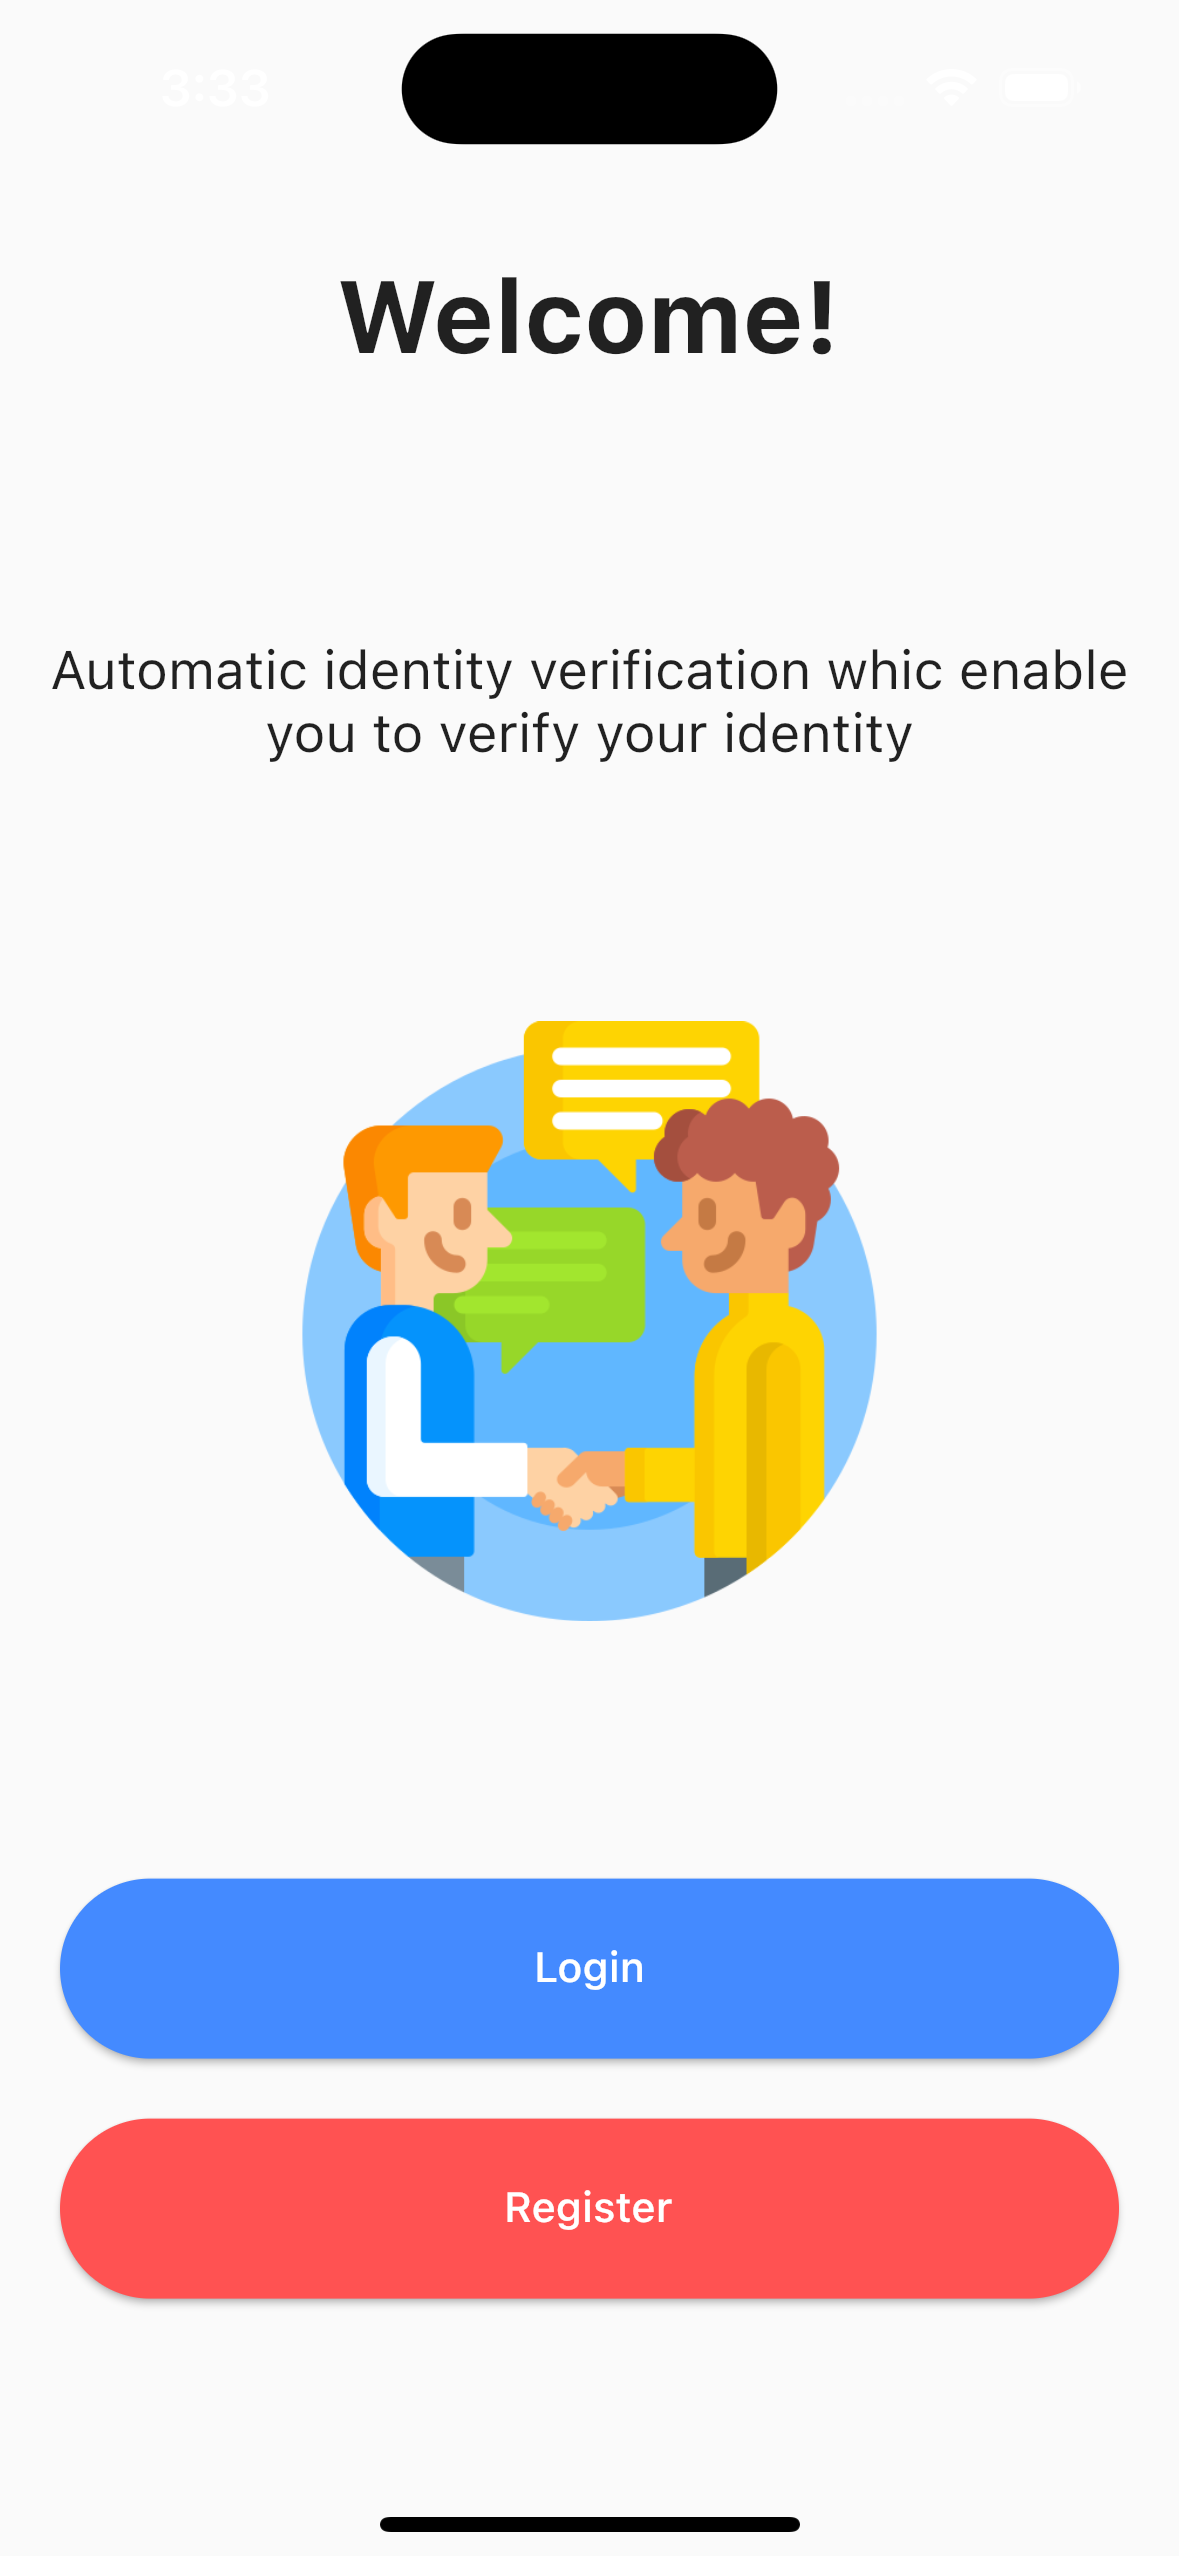
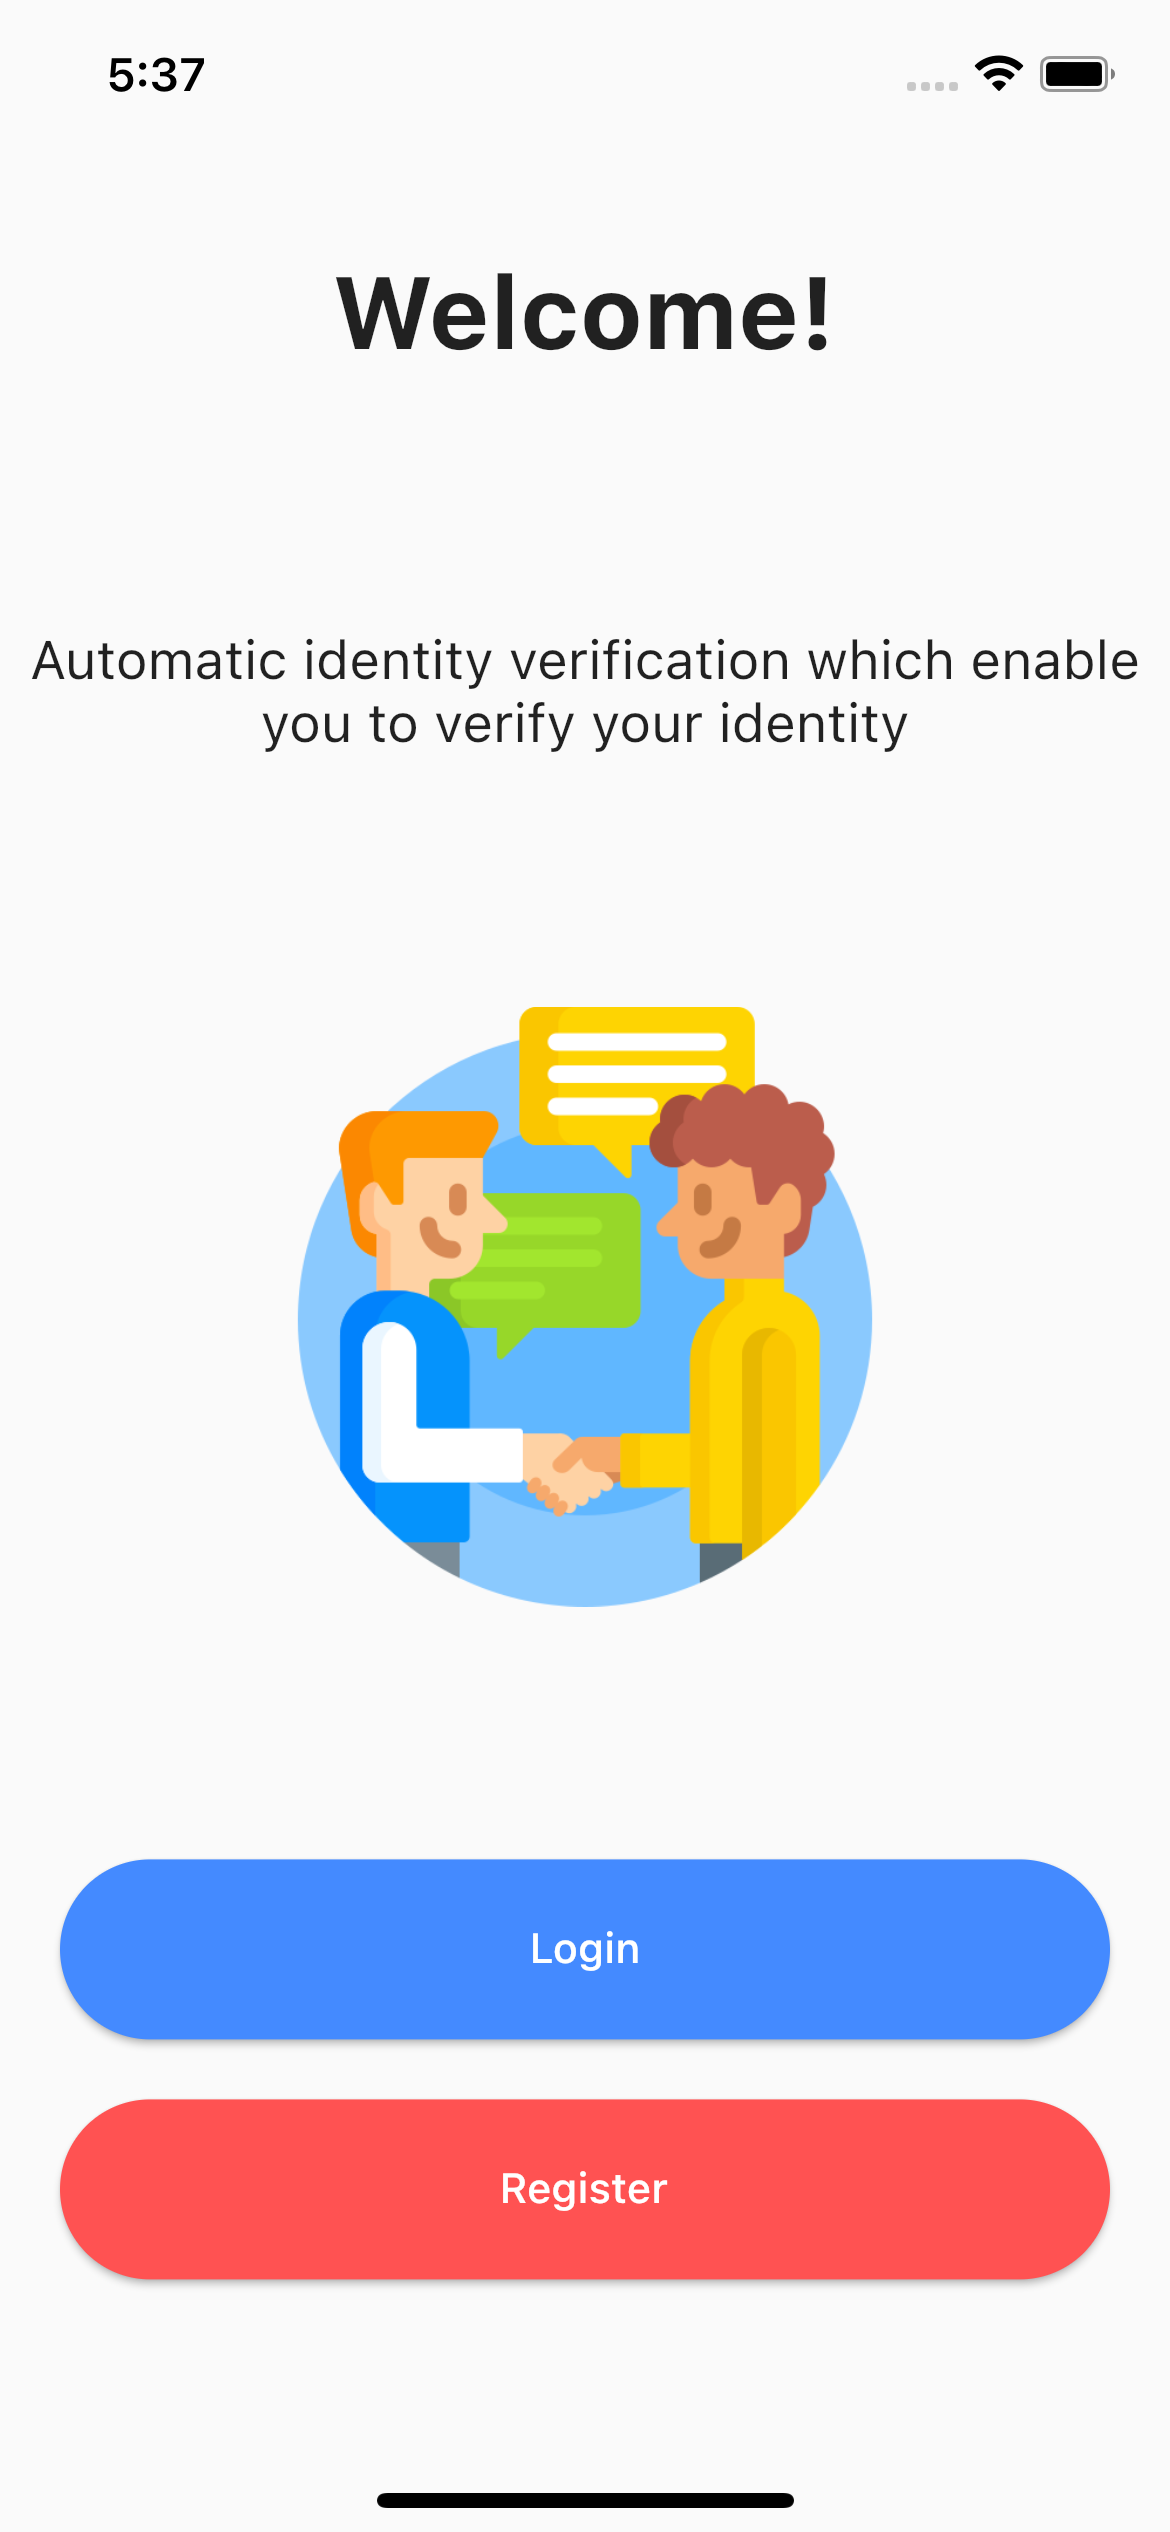
replaced screenshots

diff --git a/lib/welcome.dart b/lib/welcome.dart
@@ -1,4 +1,5 @@
 import 'package:flutter/material.dart';
+import 'package:flutter/services.dart';
 import 'package:flutter_application_1/login.dart';
 import 'package:flutter_application_1/register.dart';
 
@@ -7,72 +8,77 @@ class Welcome extends StatelessWidget {
 
   @override
   Widget build(BuildContext context) {
-    return Scaffold(
-        // appBar: AppBar(
-        //   backgroundColor: Colors.transparent,
-        //   elevation: 0,
-        // ),
-        body: Column(
-      mainAxisAlignment: MainAxisAlignment.spaceEvenly,
-      children: [
-        const Text(
-          'Welcome!',
-          style: TextStyle(fontWeight: FontWeight.bold, fontSize: 34),
-        ),
-        const Text(
-          'Automatic identity verification which enable you to verify your identity',
-          textAlign: TextAlign.center,
-          style: TextStyle(fontSize: 18),
-        ),
-        Image.asset(
-          'assets/images/introduction.png',
-          width: 200,
-        ),
-        Padding(
-          padding: const EdgeInsets.symmetric(horizontal: 20),
-          child: Column(
-            children: [
-              SizedBox(
-                width: double.infinity,
-                height: 60,
-                child: ElevatedButton(
-                  onPressed: () {
-                    Navigator.push(context,
-                        MaterialPageRoute(builder: (context) => const Login()));
-                  },
-                  style: ElevatedButton.styleFrom(
-                      //padding: EdgeInsets.symmetric(horizontal: 50, vertical: 15),
-                      backgroundColor: Colors.blueAccent,
-                      shape: RoundedRectangleBorder(
-                          borderRadius: BorderRadius.circular(50))),
-                  child: const Text('Login'),
-                ),
-              ),
-              const SizedBox(
-                height: 20,
-              ),
-              SizedBox(
-                width: double.infinity,
-                height: 60,
-                child: ElevatedButton(
-                  onPressed: () {
-                    Navigator.push(
-                        context,
-                        MaterialPageRoute(
-                            builder: (context) => const Register()));
-                  },
-                  style: ElevatedButton.styleFrom(
-                      //padding: EdgeInsets.symmetric(horizontal: 50, vertical: 15),
-                      backgroundColor: Colors.redAccent,
-                      shape: RoundedRectangleBorder(
-                          borderRadius: BorderRadius.circular(50))),
-                  child: const Text('Register'),
-                ),
-              )
-            ],
+    return AnnotatedRegion<SystemUiOverlayStyle>(
+      value: SystemUiOverlayStyle.dark,
+      child: Scaffold(
+          // appBar: AppBar(
+          //   backgroundColor: Colors.transparent,
+          //   elevation: 0,
+          // ),
+          body: Column(
+        mainAxisAlignment: MainAxisAlignment.spaceEvenly,
+        children: [
+          const Text(
+            'Welcome!',
+            style: TextStyle(fontWeight: FontWeight.bold, fontSize: 34),
           ),
-        ),
-      ],
-    ));
+          const Text(
+            'Automatic identity verification which enable you to verify your identity',
+            textAlign: TextAlign.center,
+            style: TextStyle(fontSize: 18),
+          ),
+          Image.asset(
+            'assets/images/introduction.png',
+            width: 200,
+          ),
+          Padding(
+            padding: const EdgeInsets.symmetric(horizontal: 20),
+            child: Column(
+              children: [
+                SizedBox(
+                  width: double.infinity,
+                  height: 60,
+                  child: ElevatedButton(
+                    onPressed: () {
+                      Navigator.push(
+                          context,
+                          MaterialPageRoute(
+                              builder: (context) => const Login()));
+                    },
+                    style: ElevatedButton.styleFrom(
+                        //padding: EdgeInsets.symmetric(horizontal: 50, vertical: 15),
+                        backgroundColor: Colors.blueAccent,
+                        shape: RoundedRectangleBorder(
+                            borderRadius: BorderRadius.circular(50))),
+                    child: const Text('Login'),
+                  ),
+                ),
+                const SizedBox(
+                  height: 20,
+                ),
+                SizedBox(
+                  width: double.infinity,
+                  height: 60,
+                  child: ElevatedButton(
+                    onPressed: () {
+                      Navigator.push(
+                          context,
+                          MaterialPageRoute(
+                              builder: (context) => const Register()));
+                    },
+                    style: ElevatedButton.styleFrom(
+                        //padding: EdgeInsets.symmetric(horizontal: 50, vertical: 15),
+                        backgroundColor: Colors.redAccent,
+                        shape: RoundedRectangleBorder(
+                            borderRadius: BorderRadius.circular(50))),
+                    child: const Text('Register'),
+                  ),
+                )
+              ],
+            ),
+          ),
+        ],
+      )),
+    );
   }
 }

diff --git a/lib/main.dart b/lib/main.dart
@@ -2,6 +2,7 @@ import 'dart:async';
 import 'dart:ui';
 
 import 'package:flutter/material.dart';
+import 'package:flutter/services.dart';
 import 'package:flutter_application_1/login.dart';
 import 'package:flutter_application_1/login_with_form.dart';
 import 'package:flutter_application_1/welcome.dart';
@@ -26,63 +27,52 @@ class Splash extends StatefulWidget {
 }
 
 class _SplashState extends State<Splash> {
-  @override
-  void initState() {
-    Timer(const Duration(milliseconds: 3000), () {
-      //Navigator.pushNamed(context, routeName);
-      Navigator.pushReplacement(
-          context,
-          MaterialPageRoute(builder: (context) => LoginWithValidation()));
-    });
-    super.initState();
-  }
+  // @override
+  // void initState() {
+  //   Timer(const Duration(milliseconds: 10000), () {
+  //     //Navigator.pushNamed(context, routeName);
+  //     Navigator.pushReplacement(
+  //         context,
+  //         MaterialPageRoute(builder: (context) => LoginWithValidation()));
+  //   });
+  //   super.initState();
+  // }
 
   @override
   Widget build(BuildContext context) {
-    return Scaffold(
-      body: Container(
-        decoration: const BoxDecoration(
-            image: DecorationImage(
-                image: NetworkImage(
-                    'https://images.unsplash.com/photo-1530569673472-307dc017a82d?ixlib=rb-4.0.3&ixid=MnwxMjA3fDB8MHxwaG90by1wYWdlfHx8fGVufDB8fHx8&auto=format&fit=crop&w=776&q=80'),
-                // image: AssetImage(
-                //   'assets/images/bg.jpg',
+    return AnnotatedRegion<SystemUiOverlayStyle>(
+      value: SystemUiOverlayStyle.dark,
+      child: Scaffold(
+        body: Container(
+          decoration: const BoxDecoration(
+              image: DecorationImage(
+                  image: NetworkImage(
+                      'https://images.unsplash.com/photo-1540417525167-05d2c4777f11?ixlib=rb-4.0.3&ixid=MnwxMjA3fDB8MHxwaG90by1wYWdlfHx8fGVufDB8fHx8&auto=format&fit=crop&w=774&q=80'),
+                  // image: AssetImage(
+                  //   'assets/images/bg.jpg',
+                  // ),
+                  fit: BoxFit.cover)),
+          child: Center(
+            child: Column(
+              mainAxisAlignment: MainAxisAlignment.center,
+              children: const [
+                // Icon(
+                //   Icons.whatsapp,
+                //   size: 90,
+                //   color: Colors.green,
                 // ),
-                fit: BoxFit.cover)),
-        child: Center(
-          child: Column(
-            mainAxisAlignment: MainAxisAlignment.center,
-            children: const [
-              // Icon(
-              //   Icons.whatsapp,
-              //   size: 90,
-              //   color: Colors.green,
-              // ),
-              Iconify(IconParkTwotone.fire, size: 90, color: Colors.black),
-              // Image.asset('assets/images/snapchat.png',
-              //     color: Colors.yellow, width: 100),
-              // const Image(image: AssetImage(   //2nd way to add images
-              //   'assets/images/youtube.png',
-              // ),
-              //   color: Colors.red,
-              //   width: 100
-              // ),
-              // Image.asset(
-              //   'assets/images/twitter.png',
-              //   color: Colors.blue,
-              //   width: 100
-              // ),
-              const SizedBox(
-                height: 20,
-              ),
-              // const Text(
-              //   "Snapchat",
-              //   style: TextStyle(
-              //     fontWeight: FontWeight.bold,
-              //     fontSize: 20
-              //   ),
-              // )
-            ],
+                Iconify(IconParkTwotone.android,
+                    size: 100, color: Colors.white),
+                // Image.asset(
+                //   'assets/images/twitter.png',
+                //   color: Colors.blue,
+                //   width: 100
+                // ),
+                // SizedBox(
+                //   height: 20,
+                // ),
+              ],
+            ),
           ),
         ),
       ),

diff --git a/lib/signup_with_form.dart b/lib/signup_with_form.dart
@@ -1,19 +1,24 @@
 import 'package:flutter/material.dart';
-import 'package:flutter/src/widgets/container.dart';
-import 'package:flutter/src/widgets/framework.dart';
 import 'package:flutter_application_1/login_with_form.dart';
 import 'package:flutter_application_1/welcome.dart';
 import 'package:fluttertoast/fluttertoast.dart';
 
-class SignUpWithValidation extends StatelessWidget {
+class SignUpWithValidation extends StatefulWidget {
   const SignUpWithValidation({super.key});
 
   @override
+  State<SignUpWithValidation> createState() => _SignUpWithValidationState();
+}
+
+class _SignUpWithValidationState extends State<SignUpWithValidation> {
+  bool _passView = true;
+  bool _confirmpassView = true;
+  final emailController = TextEditingController();
+  final passController = TextEditingController();
+  final confirmPassController = TextEditingController();
+  var formKey = GlobalKey<FormState>();
+  @override
   Widget build(BuildContext context) {
-    var formKey = GlobalKey<FormState>();
-    final emailController = TextEditingController();
-    final passController = TextEditingController();
-    final confirmPassController = TextEditingController();
     return Scaffold(
       appBar: AppBar(
         title: const Text('Signup with validation'),
@@ -57,9 +62,20 @@ class SignUpWithValidation extends StatelessWidget {
                 ),
                 TextFormField(
                   controller: passController,
-                  obscureText: true,
+                  obscureText: _passView,
                   decoration: InputDecoration(
                       prefixIcon: const Icon(Icons.lock_person_rounded),
+                      suffixIcon: IconButton(
+                        tooltip: 'Password visibility',
+                        onPressed: () {
+                          setState(() {
+                            _passView ? _passView = false : _passView = true;
+                          });
+                        },
+                        icon: _passView
+                            ? const Icon(Icons.remove_red_eye_rounded)
+                            : const Icon(Icons.visibility_off_rounded),
+                      ),
                       labelText: 'Password',
                       border: OutlineInputBorder(
                           borderRadius: BorderRadius.circular(10))),
@@ -77,9 +93,22 @@ class SignUpWithValidation extends StatelessWidget {
                 ),
                 TextFormField(
                   controller: confirmPassController,
-                  obscureText: true,
+                  obscureText: _confirmpassView,
                   decoration: InputDecoration(
                       prefixIcon: const Icon(Icons.lock_person_rounded),
+                      suffixIcon: IconButton(
+                        tooltip: 'Password visibility',
+                        onPressed: () {
+                          setState(() {
+                            _confirmpassView
+                                ? _confirmpassView = false
+                                : _confirmpassView = true;
+                          });
+                        },
+                        icon: _confirmpassView
+                            ? const Icon(Icons.remove_red_eye_rounded)
+                            : const Icon(Icons.visibility_off_rounded),
+                      ),
                       labelText: 'Confirm Password',
                       border: OutlineInputBorder(
                           borderRadius: BorderRadius.circular(10))),

diff --git a/lib/login_with_form.dart b/lib/login_with_form.dart
@@ -6,8 +6,15 @@ import 'package:fluttertoast/fluttertoast.dart';
 
 import 'contact_list.dart';
 
-class LoginWithValidation extends StatelessWidget {
+class LoginWithValidation extends StatefulWidget {
+  @override
+  State<LoginWithValidation> createState() => _LoginWithValidationState();
+}
+
+class _LoginWithValidationState extends State<LoginWithValidation> {
   var formKey = GlobalKey<FormState>();
+  bool _passView = true;
+
   @override
   Widget build(BuildContext context) {
     return Scaffold(
@@ -52,9 +59,22 @@ class LoginWithValidation extends StatelessWidget {
                   Padding(
                     padding: const EdgeInsets.symmetric(vertical: 10.0),
                     child: TextFormField(
-                      obscureText: true,
+                      obscureText: _passView,
                       decoration: InputDecoration(
                           prefixIcon: const Icon(Icons.lock_person_rounded),
+                          suffixIcon: IconButton(
+                            tooltip: 'Password visibility',
+                            onPressed: () {
+                              setState(() {
+                                _passView
+                                    ? _passView = false
+                                    : _passView = true;
+                              });
+                            },
+                            icon: _passView
+                                ? const Icon(Icons.remove_red_eye_rounded)
+                                : const Icon(Icons.visibility_off_rounded),
+                          ),
                           labelText: 'Password',
                           border: OutlineInputBorder(
                               borderRadius: BorderRadius.circular(10))),
